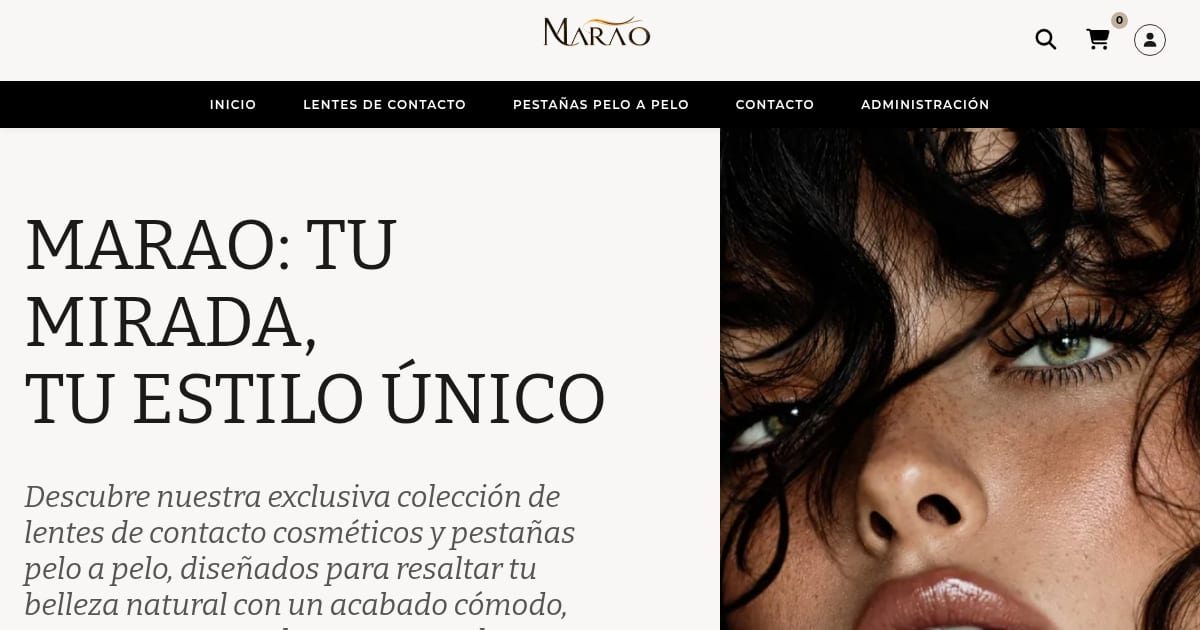
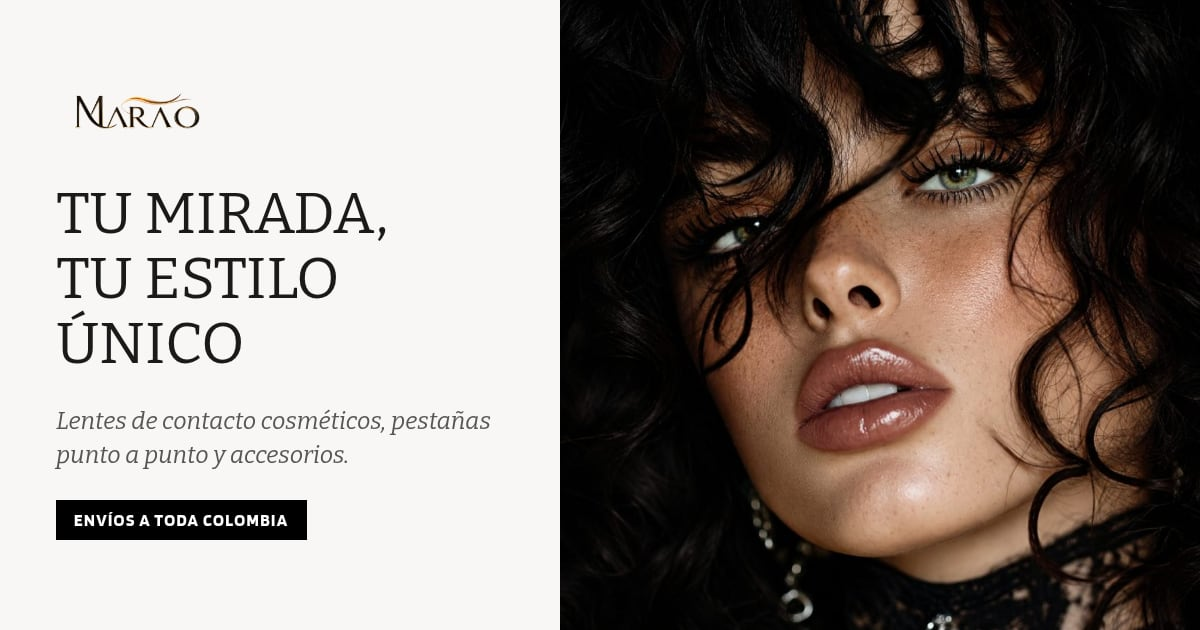
fix: show the full hero model in the Open Graph image
The page capture cropped the model at the mouth. The image is now laid
out like the home page (logo and headline on the left) with the hero
photo framed so the whole face shows.

diff --git a/index.html b/index.html
@@ -31,7 +31,7 @@
     <meta property="og:image" content="https://marao.co/assets/img/og-image.jpg" />
     <meta property="og:image:width" content="1200" />
     <meta property="og:image:height" content="630" />
-    <meta property="og:image:alt" content="Página de inicio de la tienda MARÃO" />
+    <meta property="og:image:alt" content="MARÃO: tu mirada, tu estilo único. Modelo con lentes de contacto cosméticos." />
     <meta name="twitter:card" content="summary_large_image" />
     <meta name="twitter:title" content="MARÃO | Tu mirada, tu estilo único" />
     <meta

diff --git a/CHANGELOG.md b/CHANGELOG.md
@@ -11,7 +11,7 @@ and this project adheres to [Semantic Versioning](https://semver.org/spec/v2.0.0
 
 - El footer muestra los iconos de redes sociales (Instagram y WhatsApp enlazados; TikTok y Facebook listos para activar cuando haya enlace) y el teléfono de contacto es un enlace que llama.
 - SEO: título y descripción pensados para búsquedas, URL canónica, datos estructurados de tienda en línea (schema.org), `robots.txt`, `sitemap.xml`, favicon con la «M» del logo y el panel marcado como `noindex`.
-- Al compartir el enlace (WhatsApp, Instagram, Facebook, X) aparece una vista previa con título, descripción y una captura de la página de inicio (`assets/img/og-image.jpg`, 1200×630).
+- Al compartir el enlace (WhatsApp, Instagram, Facebook, X) aparece una vista previa con título, descripción y una imagen con el titular de la portada y la foto de la modelo completa (`assets/img/og-image.jpg`, 1200×630).
 - En el panel, los filtros se adaptan a la sección: el de categoría solo ofrece las de esa sección y se oculta si no tiene ninguna, y el de color solo aparece en Lentes.
 
 - En Lentes, pupila reducida, pupila estándar y cosplay Halloween pasaron a ser categorías: en la tienda reemplazan la fila fija «Pupila» y el botón de tono «COSPLAY», y en el panel se eligen en el selector de categoría. Los 121 lentes existentes quedaron asignados a la suya.
